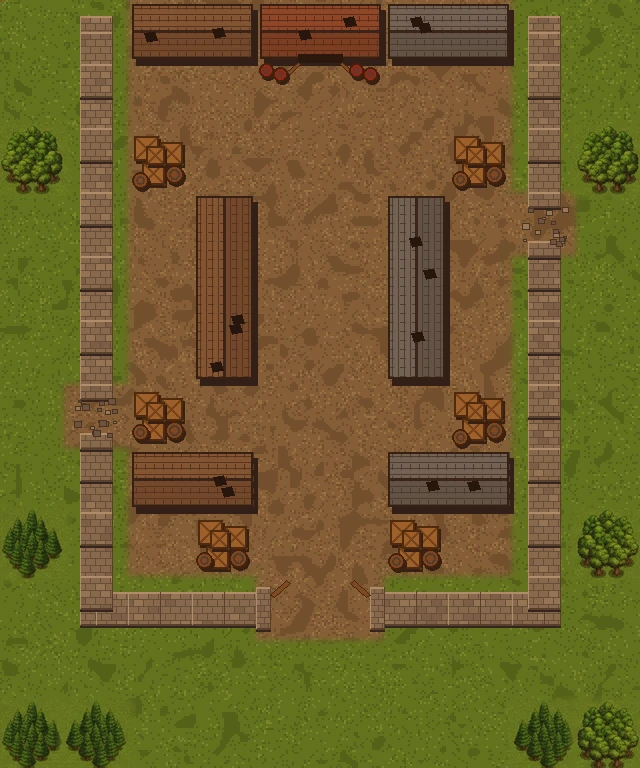
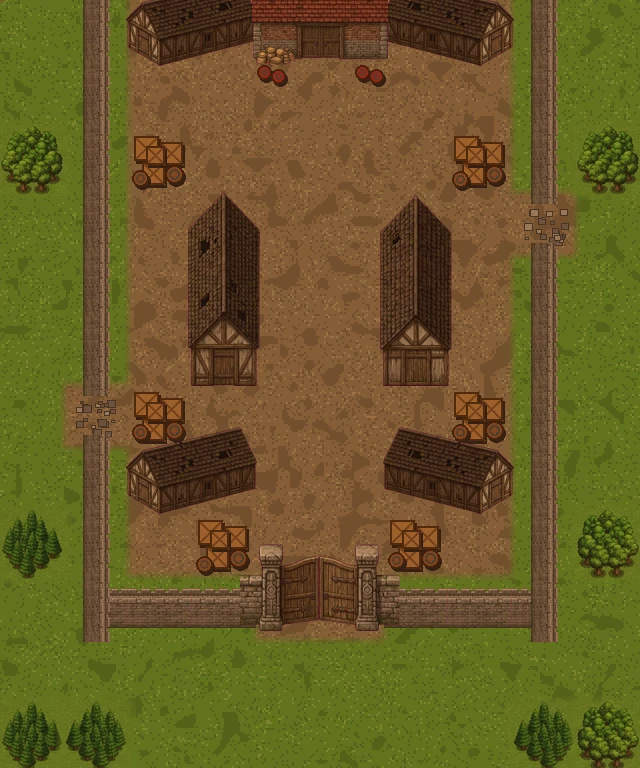
第7話・第8話のマップにユーザーが描いた塀・門・倉庫・橋の絵を貼る、第7話の戦闘背景
Claude-Session: https://claude.ai/code/session_01AR1wXjuAR5sE8Te44vnUbP

Changed region(s): [[0.125, 0.0, 0.9062, 0.8438], [0.5938, 0.25, 0.7188, 0.5], [0.2812, 0.25, 0.4062, 0.5]]

diff --git a/index.html b/index.html
@@ -1849,8 +1849,8 @@ const STAGES={
   // 決まったターン数が過ぎたら負け（ST.turnLimit：そのターンの敵フェイズが終わったら倉庫が爆破される。会話は loseBy.time）
   turnLimit:6,
   terName:{B:'兵站倉庫',M:'資材の山',D:'倉庫',G:'正門'},
-  // 敷地の中で戦うと砦の背景（資材の山の上も）。塀の外の野原はふつうの平地
-  battleBg:{M:'fort'},
+  // 倉庫の敷地（夕方）の戦闘背景。塀の外の林だけは森の背景
+  battleBg:{P:'depot',M:'depot',G:'depot',H:'depot',B:'depot'},
   goal:'勝利：6ターン以内にベルトルト機を撃破／敗北：6ターン目の敵フェイズが終わる・カラドリウス撃墜',
   roster:[
    ['zekt_b','ally',2,10],['caladrius','ally',4,10],['lance','ally',5,10],['zekt_o','ally',7,10],['schutze','ally',3,11],['cannon','ally',4,11],['truck','ally',6,11],
@@ -3200,7 +3200,7 @@ const ATK_KIND={grand:'格',sylph:'射',bulwark:'射',raven:'格',zekt:'射',cal
 const isSpecial=w=>(w.will||0)>0;
 // 戦闘画面の背景画（戦うマス＝攻撃を受ける側のマスの地形で選ぶ）。元は docs/ref/battle-bg.jpg を6つに切り分けたもの
 const BATTLE_BG_FILE={P:'plain',F:'forest',M:'mountain',K:'mountain',W:'water',C:'village',B:'fort',E:'fort',R:'water',S:'water',X:'fort',D:'fort',H:'fort',G:'fort',Q:'water'};
-const BATTLE_BG={};for(const f of[...Object.values(BATTLE_BG_FILE),'bandit','ford','castle_night'])if(!BATTLE_BG[f])BATTLE_BG[f]=img(`assets/bg/battle_${f}.jpg`);
+const BATTLE_BG={};for(const f of[...Object.values(BATTLE_BG_FILE),'bandit','ford','castle_night','depot'])if(!BATTLE_BG[f])BATTLE_BG[f]=img(`assets/bg/battle_${f}.jpg`);
 // 話ごとに地形の戦闘背景を差し替える（ST.battleBg。第2話は谷の道も岩の谷、砦は盗賊の砦の背景）
 const battleBgOf=t=>BATTLE_BG[(ST.battleBg&&ST.battleBg[t])||BATTLE_BG_FILE[t]];
 function playBattle(att,def,strikes){

diff --git a/tools/build_map.py b/tools/build_map.py
@@ -237,49 +237,6 @@ def stone_block(x0, y0, x1, y1, seed, brick=10):
     sd.line([x0, y0, x0, y1], fill=STONE_L); sd.line([x1, y0, x1, y1], fill=STONE_D)
 
 WALLISH = 'XHG'
-thick = .82 if STAGE == 'E8' else .5
-for x, y in cells('X'):
-    X, Y = x * CELL, y * CELL; w = CELL * thick; m = (CELL - w) / 2
-    if STAGE == 'E8' and x == 0:  # 帝都の城壁：盤の左はしいっぱいの厚い壁と、胸壁の凸凹
-        stone_block(X, Y - (0 if at(x, y - 1) in WALLISH else 0), X + CELL - 10, Y + CELL - 1, 100 + y, brick=14)
-        for k in range(4):
-            sd.rectangle([X + CELL - 16, Y + 4 + k * 16, X + CELL - 6, Y + 12 + k * 16], fill=STONE_L, outline=STONE_D)
-        continue
-    parts = [(X + m, Y + m, X + m + w, Y + m + w)]
-    for dx, dy in ((1, 0), (-1, 0), (0, 1), (0, -1)):
-        if at(x + dx, y + dy) in WALLISH:
-            parts.append((X + (CELL / 2 if dx > 0 else 0 if dx < 0 else m), Y + (CELL / 2 if dy > 0 else 0 if dy < 0 else m),
-                          X + (CELL if dx > 0 else CELL / 2 if dx < 0 else m + w), Y + (CELL if dy > 0 else CELL / 2 if dy < 0 else m + w)))
-    for i, (a0, b0, a1, b1) in enumerate(parts): stone_block(a0, b0, a1, b1, 10 * x + y + i)
-# 崩れた塀の穴：両側だけ塀が残り、まん中は崩れて石くずが散らばる
-for x, y in cells('H'):
-    X, Y = x * CELL, y * CELL; w = CELL * thick; m = (CELL - w) / 2
-    vert = at(x, y - 1) in WALLISH or at(x, y + 1) in WALLISH
-    r = np.random.default_rng(50 + x + y)
-    for k in (0, 1):
-        if vert: stone_block(X + m, Y + (0 if k == 0 else CELL * .78), X + m + w, Y + (CELL * .22 if k == 0 else CELL), 60 + k)
-        else: stone_block(X + (0 if k == 0 else CELL * .78), Y + m, X + (CELL * .22 if k == 0 else CELL), Y + m + w, 60 + k)
-    for _ in range(18):
-        px_, py_ = X + int(r.integers(8, CELL - 12)), Y + int(r.integers(12, CELL - 14))
-        s_ = int(r.integers(3, 8)); sd.rectangle([px_, py_, px_ + s_, py_ + s_ - 1], fill=(150, 144, 132) if r.random() < .5 else (102, 98, 92), outline=(60, 58, 56))
-# 門：両脇に太い門柱、開いた木の扉
-for x, y in cells('G'):
-    X, Y = x * CELL, y * CELL
-    vert = at(x, y - 1) in WALLISH or at(x, y + 1) in WALLISH  # 壁が縦に続く（第8話の城門）
-    if vert:
-        for k, yy in ((0, Y - 4), (1, Y + CELL - 14)):
-            stone_block(X - 2, yy, X + CELL - 4, yy + 18, 80 + k, brick=12)
-        sd.rectangle([X + 6, Y + 14, X + CELL - 14, Y + CELL - 15], fill=(70, 56, 40))
-        for k, yy in ((0, Y + 14), (1, Y + CELL - 26)):
-            sd.polygon([(X + CELL - 14, yy), (X + CELL + 6, yy + (4 if k == 0 else 8)), (X + CELL + 6, yy + (8 if k == 0 else 12)), (X + CELL - 14, yy + 12)], fill=(122, 86, 50), outline=(60, 40, 22))
-        continue
-    lx, rx = at(x - 1, y) in 'X', at(x + 1, y) in 'X'
-    if lx: stone_block(X, Y + CELL * .18, X + 14, Y + CELL * .82, 90, brick=8)
-    if rx: stone_block(X + CELL - 14, Y + CELL * .18, X + CELL, Y + CELL * .82, 91, brick=8)
-    # 扉（内側へ開いている）
-    if lx: sd.polygon([(X + 14, Y + CELL * .3), (X + 30, Y + 4), (X + 34, Y + 7), (X + 18, Y + CELL * .34)], fill=(122, 86, 50), outline=(60, 40, 22))
-    if rx: sd.polygon([(X + CELL - 14, Y + CELL * .3), (X + CELL - 30, Y + 4), (X + CELL - 34, Y + 7), (X + CELL - 18, Y + CELL * .34)], fill=(122, 86, 50), outline=(60, 40, 22))
-# 倉庫の建物（D、つながったものは1棟）と大倉庫（B）：上から見た切妻の屋根
 def components(ch):
     seen = set(); out = []
     for c in cells(ch):
@@ -292,44 +249,6 @@ def components(ch):
                 if at(*n) == ch and n not in seen: seen.add(n); st_.append(n)
         out.append(comp)
     return out
-def roof(comp, base, seed, door=False, broken=True):
-    xs = [c[0] for c in comp]; ys = [c[1] for c in comp]
-    x0, y0, x1, y1 = min(xs) * CELL + 4, min(ys) * CELL + 4, (max(xs) + 1) * CELL - 4, (max(ys) + 1) * CELL - 6
-    r = np.random.default_rng(seed)
-    sd.rectangle([x0 + 4, y0 + 6, x1 + 5, y1 + 7], fill=(36, 34, 36))  # 影
-    horiz = (x1 - x0) >= (y1 - y0)
-    dk = tuple(int(c * .72) for c in base); lt = tuple(min(255, int(c * 1.18)) for c in base)
-    if horiz:
-        mid = (y0 + y1) // 2
-        sd.rectangle([x0, y0, x1, mid], fill=lt); sd.rectangle([x0, mid, x1, y1], fill=base)
-        for yy in range(y0 + 4, y1, 6): sd.line([x0, yy, x1, yy], fill=dk)
-        for xx in range(x0, x1, 9):
-            for yy in range(y0, y1, 12): sd.line([xx + (yy // 6 % 2) * 4, yy, xx + (yy // 6 % 2) * 4, yy + 5], fill=dk)
-        sd.line([x0, mid, x1, mid], fill=(46, 40, 36), width=3)
-    else:
-        mid = (x0 + x1) // 2
-        sd.rectangle([x0, y0, mid, y1], fill=lt); sd.rectangle([mid, y0, x1, y1], fill=base)
-        for xx in range(x0 + 4, x1, 6): sd.line([xx, y0, xx, y1], fill=dk)
-        for yy in range(y0, y1, 9):
-            for xx in range(x0, x1, 12): sd.line([xx, yy + (xx // 6 % 2) * 4, xx + 5, yy + (xx // 6 % 2) * 4], fill=dk)
-        sd.line([mid, y0, mid, y1], fill=(46, 40, 36), width=3)
-    sd.rectangle([x0, y0, x1, y1], outline=(40, 34, 30), width=2)
-    if broken:  # 三十年放っておかれた屋根：ところどころ瓦が落ちて穴が開いている
-        for _ in range(len(comp)):
-            px_, py_ = int(r.integers(x0 + 8, x1 - 16)), int(r.integers(y0 + 8, y1 - 14))
-            sd.polygon([(px_, py_), (px_ + 10, py_ - 2), (px_ + 13, py_ + 7), (px_ + 3, py_ + 9)], fill=(24, 20, 20))
-    if door:  # 大倉庫の正面（南）の大扉。開いていて、中に爆薬の樽が見える
-        cx_ = (x0 + x1) // 2
-        sd.rectangle([cx_ - 22, y1 - 4, cx_ + 22, y1 + 4], fill=(28, 22, 18))
-        sd.polygon([(cx_ - 22, y1 + 4), (cx_ - 34, y1 + 14), (cx_ - 30, y1 + 16), (cx_ - 20, y1 + 6)], fill=(120, 84, 48), outline=(60, 40, 22))
-        sd.polygon([(cx_ + 22, y1 + 4), (cx_ + 34, y1 + 14), (cx_ + 30, y1 + 16), (cx_ + 20, y1 + 6)], fill=(120, 84, 48), outline=(60, 40, 22))
-for i, comp in enumerate(components('D')):
-    roof(comp, (92, 98, 106) if i % 2 else (108, 84, 66), 300 + i)
-if STAGE == 'E7':
-    for comp in components('B'): roof(comp, (118, 70, 52), 400, door=True)
-if STAGE == 'E8':
-    for comp in components('B'): roof(comp, (150, 74, 50), 500, door=False, broken=False)
-# 木箱と樽（第7話の資材の山）
 def crate(x, y, s_):
     sd.rectangle([x + 2, y + 3, x + s_ + 2, y + s_ + 3], fill=(40, 34, 30))
     sd.rectangle([x, y, x + s_, y + s_], fill=(156, 114, 64), outline=(70, 46, 24))
@@ -339,29 +258,115 @@ def barrel(x, y, rr, col=(124, 82, 46)):
     sd.ellipse([x - rr + 2, y - rr + 3, x + rr + 2, y + rr + 3], fill=(40, 34, 30))
     sd.ellipse([x - rr, y - rr, x + rr, y + rr], fill=col, outline=(56, 36, 20), width=2)
     sd.ellipse([x - rr + 4, y - rr + 4, x + rr - 4, y + rr - 4], outline=(70, 70, 70), width=2)
+
+# 塀・門・倉庫・橋の絵：ユーザーが描いたタイルの資料（docs/ref/e78-tiles-a.jpg。背景はマゼンタ）から切り抜く。
+# 斜め上から見た絵なので、マスの下のふちにそろえて貼り、上へはみ出してよい（山と同じ）。下の行のものほど後から貼る
+sys.path.insert(0, 'tools')
+from fantasy_tiles import magenta_alpha
+SHEET = np.asarray(Image.open('docs/ref/e78-tiles-a.jpg').convert('RGB'))
+def piece(box):
+    x0, y0, x1, y1 = box
+    return Image.fromarray(magenta_alpha(SHEET[y0:y1, x0:x1]), 'RGBA')
+P_WALL = piece((0, 42, 205, 250))        # 都の城壁（胸壁つき、横）
+P_GATE_CITY = piece((420, 42, 840, 250))  # 城門（塔が2つ）
+P_BRIDGE = piece((1010, 55, 1262, 196))   # 石の橋（橋げたの上の部分。アーチは使わない）
+P_GATE = piece((0, 298, 418, 525))       # 正門（石の門柱と木の扉）
+P_TALL = piece((425, 298, 628, 845))     # 細長い倉庫（妻側から見た縦長の絵）
+P_TALL2 = piece((636, 298, 840, 845))
+P_GRANARY = piece((848, 298, 1262, 600))  # 赤い瓦の大きな倉庫（扉と麦袋）
+P_BARN = piece((0, 568, 418, 845))       # 横長の古い倉庫（屋根に穴）
+P_DOCK = piece((848, 588, 1262, 795))    # 荷揚げ場の石段と小舟
+# 縦に通る塀は、横の塀の絵を90度回して使う（胸壁が横を向く）
+P_WALL_V = P_WALL.rotate(-90, expand=True)
+base = img.convert('RGBA')
+draws = []  # (下のふちのy, 順番, 関数)
+def put(im, x, y, w, h=None, bottom=None):
+    h = h or round(im.height * w / im.width)
+    im2 = im.resize((max(1, round(w)), max(1, round(h))), Image.LANCZOS)
+    yy = (bottom - h) if bottom is not None else y
+    base.alpha_composite(im2, (round(x), round(yy)))
+def later(by, fn): draws.append((by, len(draws), fn))
+
+wall_h = .62 if STAGE == 'E7' else .9   # 第7話は低い塀、第8話は都の高い城壁
+for x, y in cells('X'):
+    X, Y = x * CELL, y * CELL
+    h_n = at(x - 1, y) in WALLISH or at(x + 1, y) in WALLISH
+    v_n = at(x, y - 1) in WALLISH or at(x, y + 1) in WALLISH
+    if v_n or not h_n:  # 縦の塀（角も）
+        ww = CELL * (.9 if STAGE == 'E8' else .42)
+        later(Y + CELL, lambda X=X, Y=Y, ww=ww: put(P_WALL_V, X + (CELL - ww) / 2 - (CELL * .05 if STAGE == 'E8' else 0), Y - 2, ww, CELL + 4))
+    if h_n:  # 横の塀：となりの横の塀までつなぐ
+        x0 = X if at(x - 1, y) in WALLISH else X + CELL * .29
+        x1 = X + CELL if at(x + 1, y) in WALLISH else X + CELL * .71
+        later(Y + CELL * .8, lambda x0=x0, x1=x1, Y=Y: put(P_WALL, x0, 0, x1 - x0, CELL * wall_h, bottom=Y + CELL * .8))
+# 崩れた塀の穴：上下（または左右）に塀の切れはしが残り、まん中に石くずが散らばる
+for x, y in cells('H'):
+    X, Y = x * CELL, y * CELL; r = np.random.default_rng(50 + x + y)
+    vert = at(x, y - 1) in WALLISH or at(x, y + 1) in WALLISH
+    def rubble(X=X, Y=Y, r=r):
+        d_ = ImageDraw.Draw(base)
+        for _ in range(22):
+            px_, py_ = X + int(r.integers(10, CELL - 14)), Y + int(r.integers(14, CELL - 16))
+            s_ = int(r.integers(3, 9)); d_.rectangle([px_, py_, px_ + s_, py_ + s_ - 1], fill=(150, 144, 132) if r.random() < .5 else (102, 98, 92), outline=(60, 58, 56))
+    if vert:
+        ww = CELL * .42
+        later(Y + CELL * .3, lambda X=X, Y=Y, ww=ww: put(P_WALL_V.crop((0, 0, P_WALL_V.width, P_WALL_V.height // 4)), X + (CELL - ww) / 2, Y - 2, ww, CELL * .22))
+        later(Y + CELL, lambda X=X, Y=Y, ww=ww: put(P_WALL_V.crop((0, P_WALL_V.height * 3 // 4, P_WALL_V.width, P_WALL_V.height)), X + (CELL - ww) / 2, Y + CELL * .8, ww, CELL * .22))
+    later(Y + CELL * .5, rubble)
+# 門
+for comp in components('G'):
+    xs = [c[0] for c in comp]; ys = [c[1] for c in comp]
+    if STAGE == 'E8':  # 西の城壁の城門：塔の絵を、城壁のマスから右へ少しはみ出して貼る
+        X, Y = min(xs) * CELL, max(ys) * CELL
+        later(Y + CELL + 1, lambda X=X, Y=Y: put(P_GATE_CITY, X - CELL * .45, 0, CELL * 2.0, bottom=Y + CELL + 10))
+    else:  # 第7話の正門（2マス）
+        X0, X1, Y = min(xs) * CELL, (max(xs) + 1) * CELL, max(ys) * CELL
+        later(Y + CELL * .8, lambda X0=X0, X1=X1, Y=Y: put(P_GATE, X0 - CELL * .25, 0, X1 - X0 + CELL * .5, bottom=Y + CELL * .86))
+# 倉庫の建物（D）：横長は横長の倉庫、縦長は妻側から見た細長い倉庫
+for i, comp in enumerate(components('D')):
+    xs = [c[0] for c in comp]; ys = [c[1] for c in comp]
+    X0, X1, Y0, Y1 = min(xs) * CELL, (max(xs) + 1) * CELL, min(ys) * CELL, (max(ys) + 1) * CELL
+    if X1 - X0 >= Y1 - Y0:
+        im = P_BARN if i % 2 == 0 else P_BARN.transpose(Image.FLIP_LEFT_RIGHT)
+        later(Y1, lambda im=im, X0=X0, X1=X1, Y1=Y1: put(im, X0 - 2, 0, X1 - X0 + 4, bottom=Y1 + 2))
+    else:
+        im = P_TALL if i % 2 == 0 else P_TALL2
+        later(Y1, lambda im=im, X0=X0, X1=X1, Y1=Y1: put(im, X0 - 4, 0, X1 - X0 + 8, bottom=Y1 + 2))
+# 大倉庫・穀物倉庫（B、2マス）
+for comp in components('B'):
+    xs = [c[0] for c in comp]; ys = [c[1] for c in comp]
+    X0, X1, Y1 = min(xs) * CELL, (max(xs) + 1) * CELL, (max(ys) + 1) * CELL
+    later(Y1, lambda X0=X0, X1=X1, Y1=Y1: put(P_GRANARY, X0 - 4, 0, X1 - X0 + 8, bottom=Y1 + 2))
+    if STAGE == 'E7':  # 入口の脇に、赤い印の爆薬の樽
+        def bar(X0=X0, Y1=Y1):
+            global sd
+            sd = ImageDraw.Draw(base)
+            for k, dx in enumerate((8, 22, 106, 120)): barrel(X0 + dx, Y1 + 8 + (k % 2) * 4, 7, (150, 40, 34))
+        later(Y1 + 20, bar)
+# 木箱と樽（第7話の資材の山）
 if STAGE == 'E7':
     for x, y in cells('M'):
-        X, Y = x * CELL, y * CELL; r = np.random.default_rng(700 + x * 13 + y)
-        crate(X + 6, Y + 8, 24); crate(X + 32, Y + 14, 22); crate(X + 14, Y + 34, 22)
-        barrel(X + 46, Y + 46, 9); barrel(X + 12, Y + 22 + int(r.integers(26, 32)), 8)
-        crate(X + 18, Y + 18, 18)
-    # 大倉庫の入口の脇に、赤い印の爆薬の樽
-    for comp in components('B'):
-        x0 = min(c[0] for c in comp) * CELL; y1 = (max(c[1] for c in comp) + 1) * CELL
-        for k, dx in enumerate((10, 24, 100, 114)):
-            barrel(x0 + dx, y1 + 6 + (k % 2) * 4, 7, (150, 40, 34))
-# 橋（Q）：水の上に石の橋。両側に欄干
+        X, Y = x * CELL, y * CELL
+        def crates(X=X, Y=Y):
+            global sd
+            sd = ImageDraw.Draw(base)
+            r = np.random.default_rng(700 + X + Y)
+            crate(X + 6, Y + 8, 24); crate(X + 32, Y + 14, 22); crate(X + 14, Y + 34, 22)
+            barrel(X + 46, Y + 46, 9); barrel(X + 12, Y + 22 + int(r.integers(26, 32)), 8)
+            crate(X + 18, Y + 18, 18)
+        later(Y + CELL, crates)
+# 橋（Q）：橋げたの上の絵を90度回して、縦に渡す
 for x, y in cells('Q'):
     X, Y = x * CELL, y * CELL
     vert = at(x - 1, y) in 'WR' or at(x + 1, y) in 'WR'
-    if vert:
-        sd.rectangle([X + 12, Y - 6, X + CELL - 10, Y + CELL + 6], fill=(30, 40, 60))
-        stone_block(X + 10, Y - 6, X + CELL - 12, Y + CELL + 4, 900 + x, brick=12)
-        sd.rectangle([X + 16, Y - 6, X + CELL - 18, Y + CELL + 4], fill=(150, 140, 120))
-        for yy in range(Y - 4, Y + CELL + 4, 8): sd.line([X + 16, yy, X + CELL - 18, yy], fill=(122, 114, 98))
-    else:
-        stone_block(X - 6, Y + 10, X + CELL + 4, Y + CELL - 12, 950 + y, brick=12)
-        sd.rectangle([X - 6, Y + 16, X + CELL + 4, Y + CELL - 18], fill=(150, 140, 120))
+    im = P_BRIDGE.rotate(-90, expand=True) if vert else P_BRIDGE
+    if vert: later(Y, lambda im=im, X=X, Y=Y: put(im, X + CELL * .1, Y - 8, CELL * .8, CELL + 16))
+    else: later(Y, lambda im=im, X=X, Y=Y: put(im, X - 8, Y + CELL * .1, CELL + 16, CELL * .8))
+# 第8話：北の運河の岸に、荷揚げ場の石段と小舟（飾り）
+if STAGE == 'E8':
+    later(CELL * 1.3, lambda: put(P_DOCK, CELL * 7.2, 0, CELL * 1.7, bottom=CELL * 1.35))
+for _, _, fn in sorted(draws, key=lambda t: (t[0], t[1])): fn()
+img = base.convert('RGB')
 # 第7話は夕方：少し暗く、赤みのある光
 if STAGE == 'E7':
     a = np.asarray(img).astype(float)

diff --git a/CLAUDE.md b/CLAUDE.md
@@ -25,7 +25,7 @@
   - 戦闘用・ステータス用の大きい絵（`<機体>.png`）は、そのあと `python3 tools/cutout_hq.py` で切り抜き直す（`extract_sprites.py` の切り抜きを土台に、ふちに残る水色・桃色のにじみと、整備車両の足元の影を消す。白い装甲や羽根は残る）。`extract_sprites.py` を実行し直したら、必ずこちらも実行する。
   - 地形の見た目はファンタジー（中世ヨーロッパ風）。ビル・舗装道路・白線など近代的なものは使わない。地形タイルの元は `docs/ref/fantasy-tiles.jpg`（背景はマゼンタ）。
   - 戦闘画面の足場（`tile_*.png`。平地・森・山・水辺・村・砦）は `python3 tools/fantasy_tiles.py` で切り抜く（マゼンタを透明に）。
-  - マップ背景はステージごとに `python3 tools/build_map.py <ステージ> <出力先>` で作る（`MAP_<ステージ>` / `ROAD_<ステージ>` を読み、`fantasy-tiles.jpg` の森・山・市街・城（E）・砦（B）を貼る。市街は帝国編（E1）では村、それ以外は町。範囲は `fantasy_tiles.py` の `MAPTILE`。海と草地は生成し、草地の色はタイルの草地に合わせる。道路は土の道）。`S1 assets/stage1_map.png`、`E1 assets/stage_e1_map.png`、`E2 assets/stage_e2_map.png`（第2話は砦（E）を丸太の柵の砦の絵にし、坑道の入口（K）は `docs/ref/tile-mine.jpg` を貼る）、`E3 assets/stage_e3_map.png`（第3話。川（R）は水、渡しの浅瀬（S）は砂利の川底と目印の杭を描く）、`E4 assets/stage_e4_map.png`（第4話。補給基地（B）は砦の絵）、`E5 assets/stage_e5_map.png`（第5話。夜のマップ：全体を暗い青に沈め、城（E）と城下（C）の窓に明かりを足す。城壁は山（M）のマスで、地形の名前は terName で「城壁」）、`E6 assets/stage_e6_map.png`（第6話。峠。崖は山（M）のマスで、地形の名前は「崖」）、`E7 assets/stage_e7_map.png`（第7話。石の塀（X）で囲まれた古い兵站倉庫の敷地。南の正門（G）、西と東に崩れた塀の穴（H）、中に倉庫の建物（D、通れない）が並び、奥に大倉庫（B）。資材の山（M）は木箱と樽。塀・門・建物・木箱は設定画にないので `build_map.py` で描く（仮の絵。指示文は `docs/prompts/empire-07-tile.md`）。塀の内側の地面は土。夕方なので少し赤く暗く）、`E8 assets/stage_e8_map.png`（第8話。北に運河（W）と北の橋（Q）、穀物倉庫（B）と倉庫街（C）。西のはしは帝都の東の城壁（X）と城門（G）。まん中を運河の支流（R、渡れない）が横切り、渡れるのは橋（Q）2本。城壁・城門・橋・倉庫の屋根は `build_map.py` で描く（仮の絵。指示文は `empire-08-tile.md`）。第5話と同じく夜にして、倉庫と倉庫街に明かり）。マップを変えたら作り直す。
+  - マップ背景はステージごとに `python3 tools/build_map.py <ステージ> <出力先>` で作る（`MAP_<ステージ>` / `ROAD_<ステージ>` を読み、`fantasy-tiles.jpg` の森・山・市街・城（E）・砦（B）を貼る。市街は帝国編（E1）では村、それ以外は町。範囲は `fantasy_tiles.py` の `MAPTILE`。海と草地は生成し、草地の色はタイルの草地に合わせる。道路は土の道）。`S1 assets/stage1_map.png`、`E1 assets/stage_e1_map.png`、`E2 assets/stage_e2_map.png`（第2話は砦（E）を丸太の柵の砦の絵にし、坑道の入口（K）は `docs/ref/tile-mine.jpg` を貼る）、`E3 assets/stage_e3_map.png`（第3話。川（R）は水、渡しの浅瀬（S）は砂利の川底と目印の杭を描く）、`E4 assets/stage_e4_map.png`（第4話。補給基地（B）は砦の絵）、`E5 assets/stage_e5_map.png`（第5話。夜のマップ：全体を暗い青に沈め、城（E）と城下（C）の窓に明かりを足す。城壁は山（M）のマスで、地形の名前は terName で「城壁」）、`E6 assets/stage_e6_map.png`（第6話。峠。崖は山（M）のマスで、地形の名前は「崖」）、`E7 assets/stage_e7_map.png`（第7話。石の塀（X）で囲まれた古い兵站倉庫の敷地。南の正門（G）、西と東に崩れた塀の穴（H）、中に倉庫の建物（D、通れない）が並び、奥に大倉庫（B）。資材の山（M）は木箱と樽。塀・正門・倉庫・大倉庫の絵は、ユーザーが描いた `docs/ref/e78-tiles-a.jpg`（背景はマゼンタ）から切り抜いて、マスの下のふちにそろえて貼る（上へはみ出してよい。下の行のものほど後から貼る。縦の塀は横の塀の絵を90度回す。横長の倉庫と、妻側から見た縦長の倉庫）。崩れた塀の穴の石くずと木箱・樽は絵がないので描く。指示文は `docs/prompts/empire-07-tile.md`。戦闘の背景は `battle_depot.jpg`（倉庫の敷地の夕方。元は `docs/ref/battle-depot.jpg`）。塀の内側の地面は土。夕方なので少し赤く暗く）、`E8 assets/stage_e8_map.png`（第8話。北に運河（W）と北の橋（Q）、穀物倉庫（B）と倉庫街（C）。西のはしは帝都の東の城壁（X）と城門（G）。まん中を運河の支流（R、渡れない）が横切り、渡れるのは橋（Q）2本。城壁・城門・石の橋・穀物倉庫・荷揚げ場の石段（飾り）も `e78-tiles-a.jpg` から貼る。指示文は `empire-08-tile.md`。第5話と同じく夜にして、倉庫と倉庫街に明かり）。マップを変えたら作り直す。
   - ゼクト・キャノン（クラーラ機）の絵は `python3 tools/zekt_cannon.py`（`docs/ref/zekt-cannon-sprites.png`。大きい絵は `cut_outline`、ドット絵はゼクトと同じ `cut()` の設定。足元の薄い水色の影は `drop_shadow` で消す。影は残さない）。
   - ゼクトの資料と同じ形式の機体の資料（第3話からのゼクト・ランス・アイゼンヴァハト・アッカー、第4話のゼクト・シュッツェ・ゼクト・エーレなど）は `python3 tools/unit_sheet.py` で切り抜く（パネルの位置は共通。新しい機体は `SHEETS` に足す。パネルの位置が少し違う資料は `BOXES` で上書きする＝第8話の暁の同盟の機兵エスタ。大きい絵は `cut_outline`、ドット絵は `cut()`、足元の影は `drop_shadow`）。
   - 第2話のボス・グラウヴォルフの絵は `python3 tools/graywolf.py`（元の絵の背景はマゼンタ一色。戦闘用の大きい絵は大鉈とガトリング砲で横に長いので、戦闘画面では横幅でなく高さで大きさを決める＝`BIG_BY_H`）。

diff --git a/docs/prompts/empire-07-tile.md b/docs/prompts/empire-07-tile.md
@@ -1,6 +1,6 @@
 # 帝国編 第7話「兵站局の判」 マス（マップのタイル）の指示文
 
-> 今のマップ（`assets/stage_e7_map.png`）の塀・門・倉庫・木箱は、`tools/build_map.py` で仮に描いたもの。下の絵ができたら差し替える。
+> できあがり：1と2はユーザーが第8話の分とまとめて描いた `docs/ref/e78-tiles-a.jpg`（と別案の `e78-tiles-b.jpg`）。塀・正門・倉庫（横長・縦長）・大倉庫は `tools/build_map.py` がそこから切り抜いて貼る（縦の塀は横の塀の絵を90度回す）。崩れた塀の穴と木箱・樽は絵がないので、今も `build_map.py` で描く。戦闘の背景は `docs/ref/battle-depot.jpg` → `assets/bg/battle_depot.jpg`（使う。第7話の battleBg の depot）。
 
 添付：`docs/ref/fantasy-tiles.jpg`（今の地形タイルの資料。この形式と絵柄で描くと、森・山・村とそろう）
 切り抜きはこちらでするので、資料の文字や区切りはあってよい。

diff --git a/docs/prompts/empire-08-tile.md b/docs/prompts/empire-08-tile.md
@@ -1,6 +1,6 @@
 # 帝国編 第8話「夜明けの印」 マス（マップのタイル）の指示文
 
-> 今のマップ（`assets/stage_e8_map.png`）の城壁・城門・橋・穀物倉庫は、`tools/build_map.py` で仮に描いたもの。下の絵ができたら差し替える。
+> できあがり：`docs/ref/e78-tiles-a.jpg`（第7話の分とまとめて1枚）。城壁（縦は横の絵を90度回す）・城門・石の橋（橋げたの上を90度回す）・穀物倉庫（赤い瓦の倉庫）・荷揚げ場の石段（北の岸の飾り）を `tools/build_map.py` が切り抜いて貼る。
 > 夜のマップは、昼の絵を描いてもらい、ゲーム側で暗くして窓に明かりを足す（第5話と同じ）。昼の絵で頼む。
 
 添付：`docs/ref/fantasy-tiles.jpg`（今の地形タイルの資料。この形式と絵柄で描くと、森・山・町とそろう）
